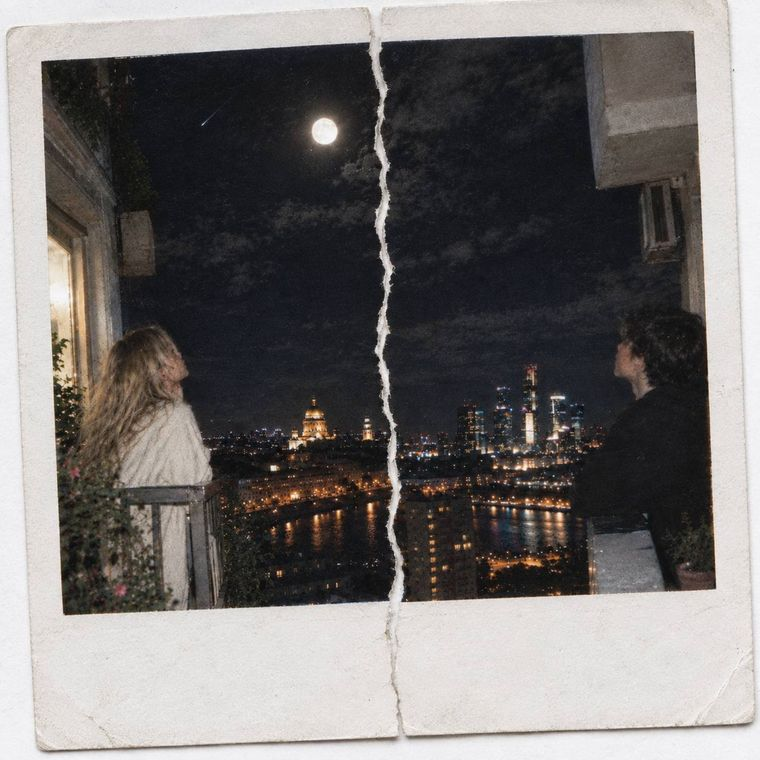
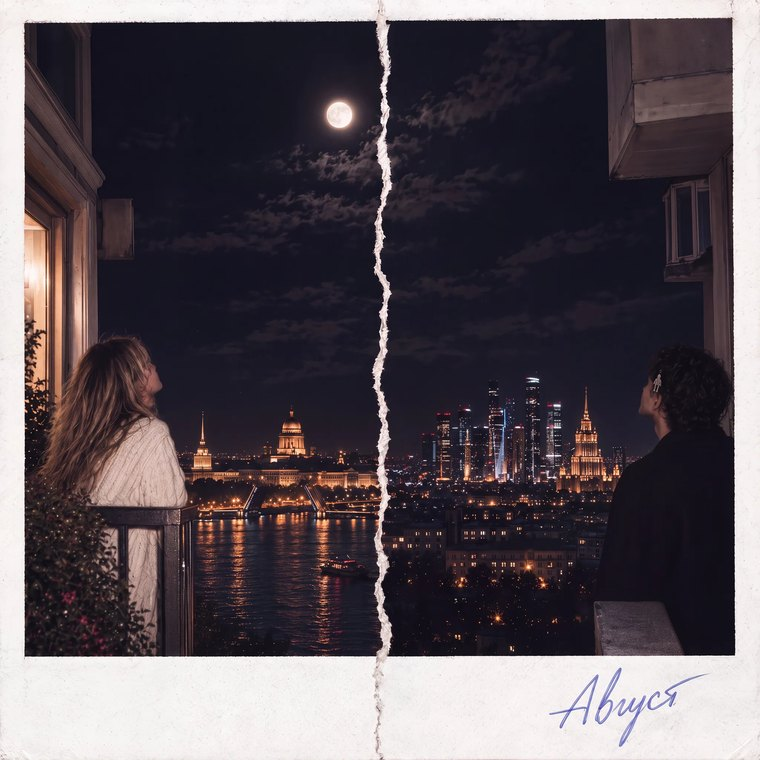
Новая обложка «Август», дата релиза 21.12.2026

diff --git a/index.html b/index.html
@@ -4,7 +4,7 @@
 <meta charset="utf-8">
 <meta name="viewport" content="width=device-width, initial-scale=1">
 <title>LANI LOUD — какие-то песни для каких-то людей</title>
-<meta name="description" content="Официальный сайт LANI LOUD. Скоро — новый сингл «Август». Слушать «17», «Я улетаю», «Свет пронести» на Spotify, Apple Music, Яндекс Музыке и VK Музыке, смотреть клипы на YouTube, пресс-релизы о вышедших и грядущих песнях.">
+<meta name="description" content="Официальный сайт LANI LOUD. 21 декабря 2026 — новый сингл «Август». Слушать «17», «Я улетаю», «Свет пронести» на Spotify, Apple Music, Яндекс Музыке и VK Музыке, смотреть клипы на YouTube, пресс-релизы о вышедших и грядущих песнях.">
 <meta name="theme-color" content="#080808">
 <link rel="canonical" href="https://laniloud.ru/">
 
@@ -12,7 +12,7 @@
 <meta property="og:site_name" content="LANI LOUD">
 <meta property="og:locale" content="ru_RU">
 <meta property="og:title" content="LANI LOUD — какие-то песни для каких-то людей">
-<meta property="og:description" content="Скоро новый сингл «Август». Слушать на всех площадках, клипы, пресс-релизы.">
+<meta property="og:description" content="21 декабря 2026 — новый сингл «Август». Слушать на всех площадках, клипы, пресс-релизы.">
 <meta property="og:image" content="https://laniloud.ru/assets/img/og-image.jpg?v=2">
 <meta property="og:image:width" content="1200">
 <meta property="og:image:height" content="630">
@@ -212,10 +212,10 @@
              data-vk, data-youtube (если есть клип), data-bandlink (все площадки сразу) -->
 
         <!-- грядущий релиз ставим первым, чтобы его сразу видели -->
-        <li class="track reveal" data-track="Август" data-duration="" data-type="Сингл / готовится к выходу">
+        <li class="track reveal" data-track="Август" data-duration="" data-type="Сингл / 21 декабря 2026">
           <button class="track-card" type="button" aria-label="«Август»: когда выйдет и где слушать">
-            <span class="track-cover"><span class="track-badge">Скоро</span><img src="assets/img/cover-04.jpg" alt="Обложка будущего сингла «Август»" loading="lazy" width="760" height="760"></span>
-            <span class="track-meta"><span class="track-name">Август</span><span class="track-time">скоро</span></span>
+            <span class="track-cover"><span class="track-badge">21.12.26</span><img src="assets/img/cover-04.jpg?v=5c06043e" alt="Обложка будущего сингла «Август»" loading="lazy" width="760" height="760"></span>
+            <span class="track-meta"><span class="track-name">Август</span><span class="track-time">21.12.2026</span></span>
           </button>
         </li>
         <li class="track reveal" data-track="17" data-duration="2:14" data-type="Сингл / 2026"
@@ -329,13 +329,13 @@
         <!-- Грядущий релиз — первым: когда трек выйдет, поменяйте класс is-soon на обычный,
              бейдж на badge-out с текстом «Вышел» и впишите дату, описание и ссылку -->
         <li class="press-card is-soon reveal">
-          <img src="assets/img/press-04.jpg" alt="" loading="lazy" width="420" height="420">
+          <img src="assets/img/press-04.jpg?v=c4828562" alt="" loading="lazy" width="420" height="420">
           <div class="press-body">
-            <span class="badge badge-soon">Скоро</span>
+            <span class="badge badge-soon">21 декабря</span>
             <h3 class="press-title">Август</h3>
-            <p class="press-meta">Сингл / готовится к выходу</p>
-            <p class="press-text">Анонс готовится: здесь появятся дата премьеры и описание песни.</p>
-            <span class="text-link is-muted">Премьера впереди</span>
+            <p class="press-meta">Сингл · 21 декабря 2026</p>
+            <p class="press-text">Премьера сингла — 21 декабря 2026. Ссылки на площадки и описание появятся в день выхода.</p>
+            <span class="text-link is-muted">Премьера 21 декабря</span>
           </div>
         </li>
         <li class="press-card reveal">
@@ -463,6 +463,11 @@
   "album": [
     {
       "@type": "MusicAlbum",
+      "name": "Август",
+      "datePublished": "2026-12-21"
+    },
+    {
+      "@type": "MusicAlbum",
       "name": "17",
       "datePublished": "2026-08-30",
       "sameAs": [
@@ -498,6 +503,6 @@
 }
 </script>
 
-<script src="js/main.js?v=00e2a3d9" defer></script>
+<script src="js/main.js?v=4999d413" defer></script>
 </body>
 </html>

diff --git a/js/main.js b/js/main.js
@@ -125,8 +125,10 @@
       modalCover.alt = cover.alt || '';
     }
     modalTitle.textContent = item.getAttribute('data-track') || '';
-    modalMeta.textContent = (item.getAttribute('data-duration') || '') +
-      ' · ' + (item.getAttribute('data-type') || 'Сингл');
+    /* у будущего релиза длительности ещё нет — тогда показываем только тип */
+    var duration = (item.getAttribute('data-duration') || '').trim();
+    var type = item.getAttribute('data-type') || 'Сингл';
+    modalMeta.textContent = duration ? duration + ' · ' + type : type;
     buildPlatforms(item);
     modal.hidden = false;
     doc.body.classList.add('is-locked');
